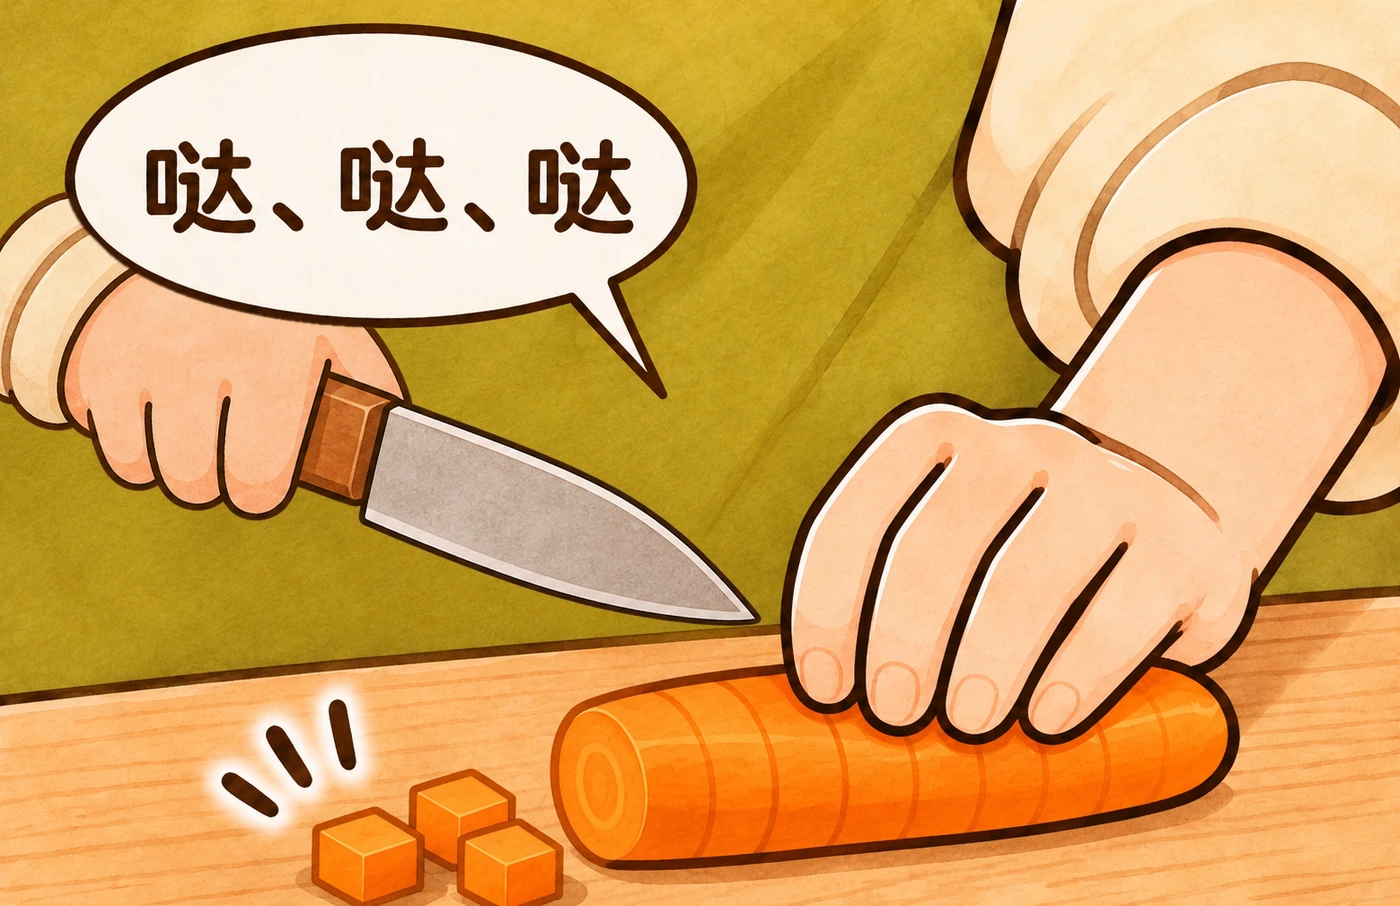
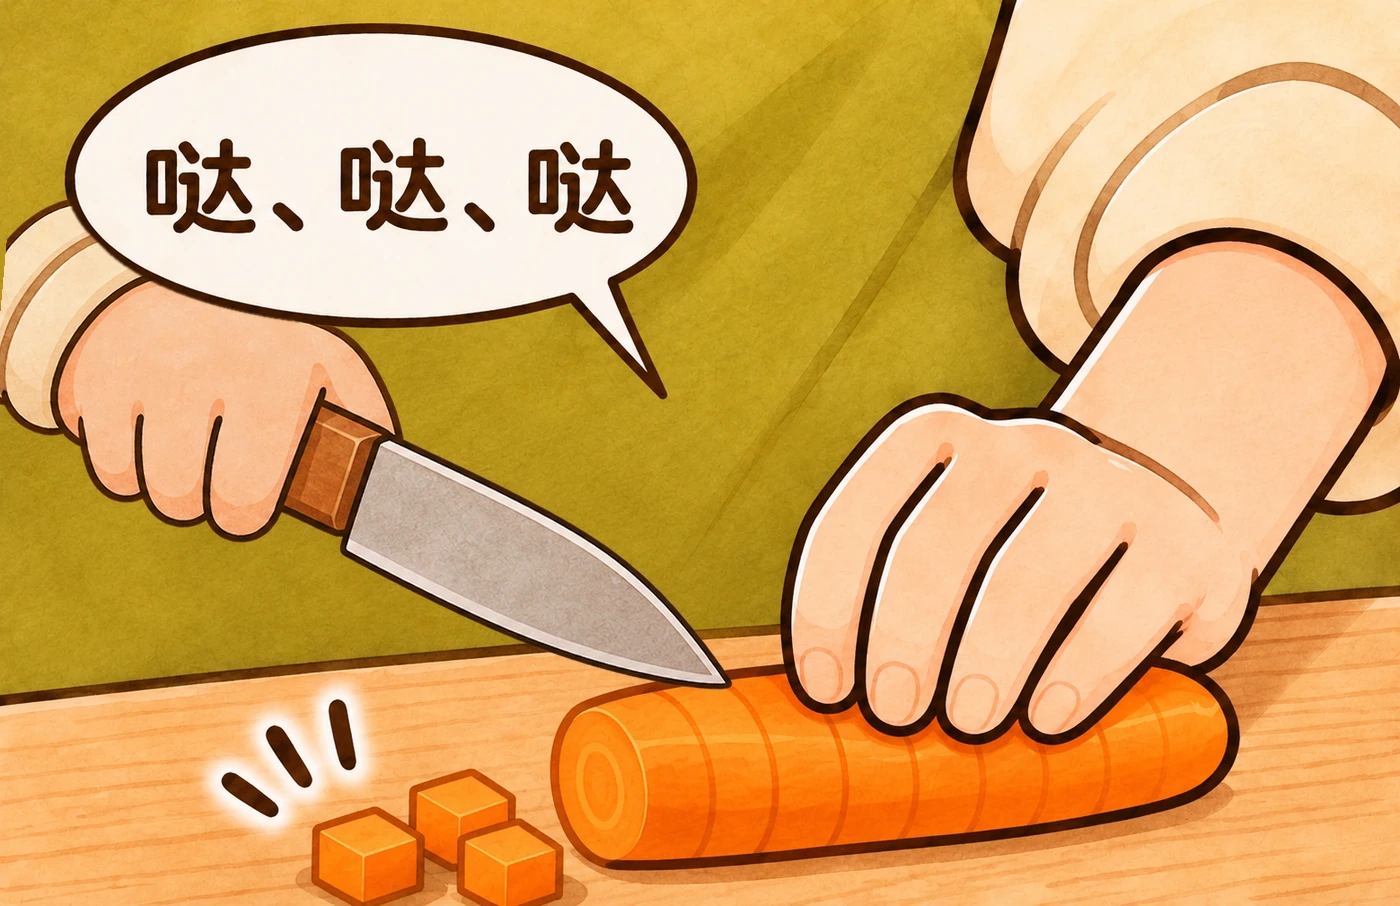
p6e: back to the original egg art (cropped clean base and text layer to the bubble mask's 475x341 so there is no dark border or ghost text); generated yolk layers removed. p2b: knife tilts about the sleeve edge so the tip lands on the carrot as it gets shorter

Changed region(s): [[0.0, 0.2163, 0.5529, 0.7726]]

diff --git a/src/app/preview/visual/PanelPerf.tsx b/src/app/preview/visual/PanelPerf.tsx
@@ -227,12 +227,22 @@ const CHOP_STROKES = 8;
 const P2B_LAYERS = ["base0", "base1", "base2", "knifeA", "knifeB", "knifeC", "front"];
 const P2B_INIT: Record<string, number> = { base0: 1, base1: 0, base2: 0, knifeA: 1, knifeB: 0, knifeC: 0, front: 1 };
 const P2B_END: Record<string, number> = { base0: 1, base1: 1, base2: 1, knifeA: 1, knifeB: 0, knifeC: 0, front: 1 };
+/**
+ * 刀要真的落在胡萝卜上（2026-11-15 用户反馈：刀尖悬在手指上方，完全没切进萝卜）。
+ * 生成的刀姿态是按整根胡萝卜画的；胡萝卜被切短、连同扶菜的手一起往右下移之后，刀尖就落在空处了。
+ * 所以握刀层按胡萝卜状态整体绕左缘（袖口所在边，原点 0% 35%）顺时针转一点，把刀尖压到胡萝卜上表面（切在扶菜手指的左边，真实切菜就是贴着指节下刀），
+ * 最后一档再右移一点；切换发生在第 3 / 第 6 刀接触之后的停顿里（0.18 s 缓动）。度数 = 刀尖落到该状态胡萝卜上缘所需的角度（按图量的）。
+ */
+const KNIFE_ORIGIN = "0% 35%";
+const KNIFE_FIT = [{ rotation: 5, xPercent: 0 }, { rotation: 5.5, xPercent: 0.5 }, { rotation: 9.5, xPercent: 2.5 }];
+const KNIFE_LAYERS = ["knifeA", "knifeB", "knifeC"] as const;
 export function ChopPanel({ p, pos, dy, q, stage, animate }: { p: PanelSlot; pos: Place; dy: number; q: number; stage: Stage; animate: boolean }) {
   const els = useRef<Record<string, HTMLImageElement | null>>({});
   const tl = useRef<gsap.core.Timeline | null>(null);
   const apply = (v: Record<string, number>) => Object.entries(v).forEach(([n, o]) => { const el = els.current[n]; if (el) gsap.set(el, { opacity: o }); });
-  const reset = () => { tl.current?.kill(); tl.current = null; apply(P2B_INIT); flag(false); };
-  const settle = () => { apply(P2B_END); flag(false); };
+  const fit = (k: number) => KNIFE_LAYERS.forEach((n) => { const el = els.current[n]; if (el) gsap.set(el, { ...KNIFE_FIT[k], transformOrigin: KNIFE_ORIGIN }); });
+  const reset = () => { tl.current?.kill(); tl.current = null; apply(P2B_INIT); fit(0); flag(false); };
+  const settle = () => { apply(P2B_END); fit(2); flag(false); };
   const stop = () => { if (!tl.current) return; tl.current.kill(); tl.current = null; settle(); };
   const play = () => {
     reset();
@@ -249,8 +259,11 @@ export function ChopPanel({ p, pos, dy, q, stage, animate }: { p: PanelSlot; pos
       pose("knifeB", at); at += 0.06;
       pose("knifeA", at); // 压下去
       t.call(() => oneshot("chopHit", pan), [], at); // 刀刃接触
-      if (i === 2) t.to(g("base1"), { opacity: 1, duration: 0.12, ease: "none" }, at);
-      if (i === 5) t.to(g("base2"), { opacity: 1, duration: 0.12, ease: "none" }, at);
+      if (i === 2 || i === 5) {
+        const k = i === 2 ? 1 : 2;
+        t.to(g(`base${k}`), { opacity: 1, duration: 0.12, ease: "none" }, at); // 胡萝卜切短一截
+        KNIFE_LAYERS.forEach((n) => t.to(g(n), { ...KNIFE_FIT[k], duration: 0.18, ease: "power2.inOut" }, at + 0.04)); // 刀跟着落到新的菜上
+      }
       at += 0.22;
     }
     tl.current = t;
@@ -262,7 +275,7 @@ export function ChopPanel({ p, pos, dy, q, stage, animate }: { p: PanelSlot; pos
     <div className="panel-frame absolute overflow-hidden will-change-transform" style={boxStyle(pos, p.aspect, dy)}>
       {P2B_LAYERS.map((n) => (
         // eslint-disable-next-line @next/next/no-img-element
-        <img key={n} ref={(el) => { els.current[n] = el; }} src={`${P2B}${n}.webp`} alt="" draggable={false} className="absolute inset-0 block h-full w-full select-none pointer-events-none" style={{ opacity: P2B_INIT[n] }} />
+        <img key={n} ref={(el) => { els.current[n] = el; }} src={`${P2B}${n}.webp`} alt="" draggable={false} className="absolute inset-0 block h-full w-full select-none pointer-events-none" style={{ opacity: P2B_INIT[n], ...(n.startsWith("knife") ? { transformOrigin: KNIFE_ORIGIN, transform: `rotate(${KNIFE_FIT[0].rotation}deg)` } : {}) }} />
       ))}
     </div>
   );
@@ -398,39 +411,33 @@ export function SaucePanel(props: { p: PanelSlot; pos: Place; dy: number; q: num
 }
 
 /**
- * 结尾回答格 p6e "没事，是我拉肚子了。"（只在 punchline 段出现）。分层（tools/prepare_p6e_layers.py，public/assets/comic-v5/p6e/，全部 1463×1075 同尺寸同位置）：
- *   base（空泡、没有蛋脸、没有淌出的蛋黄）＋ yolk3（淌出的蛋黄，固定一个形态）＋ faceA（蛋脸，固定）＋ bubble（泡形遮罩，alpha）＋ text（对白字层）＋ steam（碗口热气）。
- * 2026-11-15 用户反馈：蛋黄和蛋脸都不该动（多层蛋黄淡入叠在一起发脏、重影；脸一动就破坏了"面无表情"的笑点）。
- * 所以只动两样，每样有理由：
- *   1. 对白：停顿 → 气泡以外的画面轻微降饱和、降对比（只作用于底图、蛋黄、蛋脸）；泡本身用泡形遮罩叠一份不加滤镜的底图，所以保持奶油白；
- *      整句约半秒内从浅墨渐浓。进入稳定前泡里是空的。
- *   2. 碗口一缕很淡的热气（常驻轻飘，只改透明度和极小的上移，不改形）。
- * 离场落到终态（降饱和 + 文字全显），复位回到原样。减少动态效果 / ?perf=0：直接显示终态静图（static.webp）。不加发光、投影、抖动。
+ * 对白分层样板：结尾回答格 p6e "没事，是我拉肚子了。"（只在 punchline 段出现）。
+ * 不是打字机：原漫画、气泡轮廓和构图都不动，只把气泡里的旧字清掉（tools/replace_bubble_text.py --clean-only → p6e-clean-c.webp），
+ * 对白换成透明字层 p6e-text-c.webp（同一套字形预先排好，不依赖浏览器字体；旧版用网页文字回退苹方加描边，和其它对白字形不一致）。
+ * 播放（格子进入并稳定后，按真实时间）：
+ *   1. 短暂停顿；
+ *   2. 气泡以外的画面轻微降饱和、降对比（底图加 CSS filter）；气泡本身用精确的泡形遮罩（tools/dialogue_layers.py → p6e-bubble.webp，
+ *      原图里泡的纸面 + 描边 + 尾巴）叠一份不加滤镜的原图，所以泡保持奶油白、不透明、清楚，分界沿着泡原来不规则的纸边；
+ *   3. 整句对白在约半秒内从浅墨渐浓，一直清楚可读，不逐字跳出。
+ * 进入稳定前气泡里是空的（反转对白不提前露出）。离场落到终态（降饱和 + 文字全显），复位回到原样（文字隐藏）。
+ * 减少动态效果 / ?perf=0：直接显示完整原图（p6e.webp，字已排在图里）。不加发光、投影、抖动。
  */
-const P5 = "/assets/comic-v5/p6e/";
+const P3 = "/assets/comic-v3/";
 const P6E_TEXT = "没事，是我拉肚子了。";
 const DIM = { saturate: 0.68, contrast: 0.9, brightness: 1.02 };
 export function DialoguePanel({ p, pos, dy, q, stage, animate }: { p: PanelSlot; pos: Place; dy: number; q: number; stage: Stage; animate: boolean }) {
-  const art = useRef<HTMLDivElement>(null);
-  const els = useRef<Record<string, HTMLImageElement | null>>({});
+  const base = useRef<HTMLImageElement>(null);
+  const text = useRef<HTMLImageElement>(null);
   const tl = useRef<gsap.core.Timeline | null>(null);
-  const steamTw = useRef<gsap.core.Tween | null>(null);
   const look = useRef({ dim: 0, ink: 0, show: 0 });
   const apply = () => {
     const { dim, ink, show } = look.current;
-    if (art.current) art.current.style.filter = `saturate(${1 - (1 - DIM.saturate) * dim}) contrast(${1 - (1 - DIM.contrast) * dim}) brightness(${1 + (DIM.brightness - 1) * dim})`;
-    const text = els.current.text;
-    if (text) text.style.opacity = String(show * (0.22 + 0.78 * ink));
+    if (base.current) base.current.style.filter = `saturate(${1 - (1 - DIM.saturate) * dim}) contrast(${1 - (1 - DIM.contrast) * dim}) brightness(${1 + (DIM.brightness - 1) * dim})`;
+    if (text.current) text.current.style.opacity = String(show * (0.22 + 0.78 * ink)); // 字是图层（tools/replace_bubble_text.py --text-layer），淡入就是透明度
   };
   const setLook = (v: { dim: number; ink: number; show: number }) => { look.current = { ...v }; apply(); };
-  const steamAt = (o: number) => { steamTw.current?.kill(); steamTw.current = null; const el = els.current.steam; if (el) gsap.set(el, { opacity: o, yPercent: 0 }); };
-  const reset = () => { tl.current?.kill(); tl.current = null; steamAt(0); setLook({ dim: 0, ink: 0, show: 0 }); };
-  const stop = () => {
-    if (!tl.current) return;
-    tl.current.kill(); tl.current = null;
-    steamAt(0.45);
-    setLook({ dim: 1, ink: 1, show: 1 });
-  };
+  const reset = () => { tl.current?.kill(); tl.current = null; setLook({ dim: 0, ink: 0, show: 0 }); };
+  const stop = () => { if (!tl.current) return; tl.current.kill(); tl.current = null; setLook({ dim: 1, ink: 1, show: 1 }); };
   const play = () => {
     reset();
     const st = look.current;
@@ -438,36 +445,22 @@ export function DialoguePanel({ p, pos, dy, q, stage, animate }: { p: PanelSlot;
     t.to(st, { dim: 1, duration: 0.6, ease: "power1.inOut" }, 0); // 泡以外轻微降饱和、降对比
     t.to(st, { show: 1, duration: 0.12, ease: "none" }, 0.3); // 对白出现（浅墨）
     t.to(st, { ink: 1, duration: 0.5, ease: "power1.out" }, 0.3); // 从浅墨渐浓
-    const steam = els.current.steam;
-    if (steam) {
-      t.to(steam, { opacity: 0.45, duration: 1.4, ease: "sine.out" }, 0.8);
-      t.call(() => { steamTw.current = gsap.to(steam, { yPercent: -1.6, opacity: 0.8, duration: 3.2, ease: "sine.inOut", yoyo: true, repeat: -1 }); }, [], 2.2);
-    }
     tl.current = t;
   };
   useStage(q, stage, animate, play, stop, reset);
-  if (!animate) return <StaticImg src={`${P5}static.webp`} pos={pos} aspect={p.aspect} dy={dy} />;
+  if (!animate) return <StaticImg src={p.src!} pos={pos} aspect={p.aspect} dy={dy} />;
   const img = "absolute inset-0 block h-full w-full select-none";
-  const layer = (n: string, o: number) => (
-    // eslint-disable-next-line @next/next/no-img-element
-    <img key={n} ref={(el) => { els.current[n] = el; }} src={`${P5}${n}.webp`} alt="" draggable={false} className={`${img} pointer-events-none`} style={{ opacity: o }} />
-  );
   return (
-    <div className="panel-frame absolute overflow-hidden will-change-transform" style={{ ...boxStyle(pos, p.aspect, dy) }}>
-      {/* 会被降饱和的部分：底图、蛋黄、蛋脸（都固定不动） */}
-      <div ref={art} className="absolute inset-0">
-        {layer("base", 1)}
-        {layer("yolk3", 1)}
-        {layer("faceA", 1)}
-      </div>
-      {/* 泡本身：同一张底图、不加滤镜，只露出泡形遮罩里的部分 */}
+    <div className="panel-frame absolute will-change-transform" style={{ ...boxStyle(pos, p.aspect, dy) }}>
       {/* eslint-disable-next-line @next/next/no-img-element */}
-      <img src={`${P5}base.webp`} alt="" draggable={false} className={img}
-        style={{ maskImage: `url(${P5}bubble.webp)`, WebkitMaskImage: `url(${P5}bubble.webp)`, maskSize: "100% 100%", WebkitMaskSize: "100% 100%", maskRepeat: "no-repeat", WebkitMaskRepeat: "no-repeat" }} />
-      {/* 对白字层：字形预先排好，不依赖浏览器字体 */}
-      {layer("text", 0)}
-      {layer("steam", 0)}
-      <span className="sr-only">{P6E_TEXT}</span>
+      <img ref={base} src={`${P3}p6e-clean-c.webp`} alt="" draggable={false} className={img} />
+      {/* 泡本身：同一张图、不加滤镜，只露出泡形遮罩里的部分 */}
+      {/* eslint-disable-next-line @next/next/no-img-element */}
+      <img src={`${P3}p6e-clean-c.webp`} alt="" draggable={false} className={img}
+        style={{ maskImage: `url(${P3}p6e-bubble.webp)`, WebkitMaskImage: `url(${P3}p6e-bubble.webp)`, maskSize: "100% 100%", WebkitMaskSize: "100% 100%", maskRepeat: "no-repeat", WebkitMaskRepeat: "no-repeat" }} />
+      {/* 新对白：和图里其它对白同一套字形（Lantinghei SC Heavy 排好的透明层），不依赖浏览器有没有这个字体 */}
+      {/* eslint-disable-next-line @next/next/no-img-element */}
+      <img ref={text} src={`${P3}p6e-text-c.webp`} alt={P6E_TEXT} draggable={false} className={`${img} pointer-events-none`} style={{ opacity: 0 }} />
     </div>
   );
 }

diff --git a/tools/prepare_p2b_layers.py b/tools/prepare_p2b_layers.py
@@ -49,8 +49,9 @@ save(front, "front")
 print("bubble px", int(bub.sum()), "bbox", np.argwhere(bub).min(0), np.argwhere(bub).max(0))
 
 st = L["base0"].copy()
-for k in ("knifeA",):
-    st.alpha_composite(L[k])
+# 静态格的刀和动画第 1 帧一致：绕左缘（0%, 35%）顺时针转 5°，刀尖压到胡萝卜上（PanelPerf.tsx KNIFE_FIT）
+kn = L["knifeA"].rotate(-5, resample=Image.BICUBIC, center=(0, OH * 0.35))
+st.alpha_composite(kn)
 st.alpha_composite(front)
 save(st, "static", rgb=True)
 print("ok", (OW, OH), "aspect", OW / OH)
